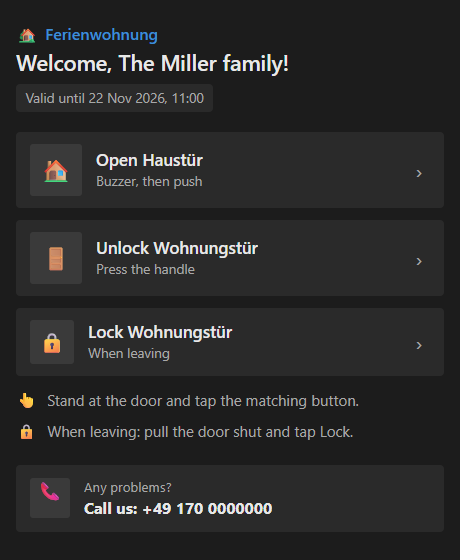
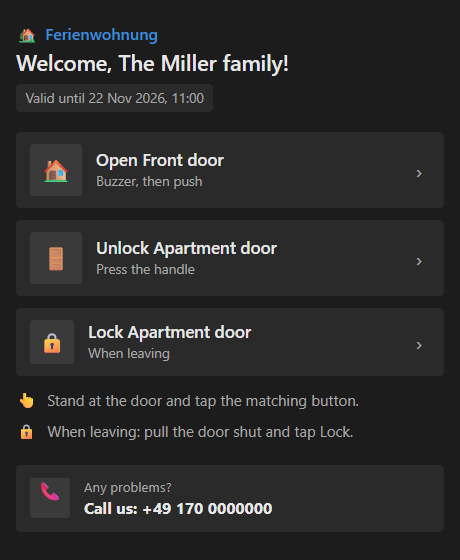
Guest Opener 1.3.5: Englische Türbezeichnungen für englischsprachige Gäste ergänzen.

Changed region(s): [[0.3348, 0.425, 0.6087, 0.4554], [0.2739, 0.5768, 0.5478, 0.6071], [0.3043, 0.2732, 0.487, 0.3036]]

diff --git a/guest_opener/src/app.ts b/guest_opener/src/app.ts
@@ -211,7 +211,7 @@ export function createApp(cfg: Config, store: Store, doors: Doors, notifier: Pic
   });
 
   app.post("/g/:token/door", async (c) => {
-    const { t } = guestLang(c);
+    const { lang, t } = guestLang(c);
     const stay = store.getStay(c.req.param("token"));
     if (!stay || stayStatus(stay) !== "active" || !(await hasSession(c, stay))) {
       return c.json({ ok: false, message: t.sessionExpired }, 401);
@@ -228,7 +228,9 @@ export function createApp(cfg: Config, store: Store, doors: Doors, notifier: Pic
     if (!isDoor(door) || !action || !doors.allows(door, action)) {
       return c.json({ ok: false, message: t.doorError }, 400);
     }
-    const name = doors.title(door);
+    // `name` is shown to the guest in their language; notifications to the host use the German label.
+    const name = doors.title(door, lang);
+    const hostName = doors.title(door);
     const log = { door, action, guest_name: stay.guest_name, at: Date.now() };
     const success =
       action === "lock" ? t.lockedDoor(name) : action === "unlock" ? t.unlocked(name) : doors.buzzes(door) ? t.openedBuzzer(name) : t.openedLatch(name);
@@ -248,7 +250,7 @@ export function createApp(cfg: Config, store: Store, doors: Doors, notifier: Pic
       if (loc.reason === "too_far") {
         notifier.send(
           "Guest Opener: Öffnen abgelehnt",
-          `${stay.guest_name} wollte „${name}“ aus ${((distance_m ?? 0) / 1000).toFixed(1)} km Entfernung öffnen.`,
+          `${stay.guest_name} wollte „${hostName}“ aus ${((distance_m ?? 0) / 1000).toFixed(1)} km Entfernung öffnen.`,
         );
       }
       const message = loc.reason === "too_far" ? t.tooFar : loc.reason === "inaccurate" ? t.inaccurate : t.geoUnavailable;
@@ -264,7 +266,7 @@ export function createApp(cfg: Config, store: Store, doors: Doors, notifier: Pic
     store.logAccess({ ...log, success: result.ok, detail: result.detail, distance_m });
     if (!result.ok) {
       store.setLastOpen(stay.token, door, previous);
-      notifier.send("Guest Opener: Tür reagiert nicht", `${name} (${stay.guest_name}): ${result.detail}`);
+      notifier.send("Guest Opener: Tür reagiert nicht", `${hostName} (${stay.guest_name}): ${result.detail}`);
       return c.json({ ok: false, message: t.doorError }, 502);
     }
     const firstOpen = stay.role === "guest" && !stay.last_open.house && !stay.last_open.apartment;
@@ -272,7 +274,7 @@ export function createApp(cfg: Config, store: Store, doors: Doors, notifier: Pic
       const verb = action === "unlock" ? "aufgesperrt" : "geöffnet";
       notifier.send(
         "Guest Opener: Gast angekommen",
-        `${stay.guest_name} hat zum ersten Mal ${name} ${verb}${distance_m === null ? "" : ` (${distance_m} m entfernt)`}.`,
+        `${stay.guest_name} hat zum ersten Mal ${hostName} ${verb}${distance_m === null ? "" : ` (${distance_m} m entfernt)`}.`,
       );
     }
     return c.json({ ok: true, message: success });

diff --git a/guest_opener/src/config.ts b/guest_opener/src/config.ts
@@ -21,6 +21,9 @@ export type Config = {
   doorApartment: string;
   doorHouseName: string;
   doorApartmentName: string;
+  /** Labels on the English guest page and message. */
+  doorHouseNameEn: string;
+  doorApartmentNameEn: string;
   doorHouseMode: DoorMode;
   doorApartmentMode: DoorMode;
   /** Optional sensor.* (percent) or binary_sensor.* (on = low) entity reporting the door device's battery. */
@@ -46,10 +49,12 @@ type Options = {
   admin_password?: string;
   door_house?: string;
   door_house_name?: string;
+  door_house_name_en?: string;
   door_house_mode?: string;
   door_house_battery?: string;
   door_apartment?: string;
   door_apartment_name?: string;
+  door_apartment_name_en?: string;
   door_apartment_mode?: string;
   door_apartment_battery?: string;
   notify_service?: string;
@@ -70,10 +75,12 @@ function optionsFromEnv(env: NodeJS.ProcessEnv): Options {
     admin_password: env.ADMIN_PASSWORD,
     door_house: env.DOOR_HOUSE,
     door_house_name: env.DOOR_HOUSE_NAME,
+    door_house_name_en: env.DOOR_HOUSE_NAME_EN,
     door_house_mode: env.DOOR_HOUSE_MODE,
     door_house_battery: env.DOOR_HOUSE_BATTERY,
     door_apartment: env.DOOR_APARTMENT,
     door_apartment_name: env.DOOR_APARTMENT_NAME,
+    door_apartment_name_en: env.DOOR_APARTMENT_NAME_EN,
     door_apartment_mode: env.DOOR_APARTMENT_MODE,
     door_apartment_battery: env.DOOR_APARTMENT_BATTERY,
     notify_service: env.NOTIFY_SERVICE,
@@ -152,6 +159,12 @@ export function buildConfig(
   if (notify && !/^notify\.[a-z0-9_]+$/.test(notify)) {
     errors.push(`notify_service must look like notify.mobile_app_my_phone (got "${o.notify_service}")`);
   }
+  const houseName = label(o.door_house_name, "Haustür");
+  const apartmentName = label(o.door_apartment_name, "Wohnungstür");
+  // Without an English label, the default German name gets the English default. A name the host chose
+  // can't be translated here, so it is kept as is.
+  const labelEn = (value: string | undefined, german: string, germanDefault: string, englishDefault: string) =>
+    label(value, german === germanDefault ? englishDefault : german);
   if (errors.length) throw new Error(`Invalid configuration:\n- ${errors.join("\n- ")}`);
 
   return {
@@ -166,8 +179,10 @@ export function buildConfig(
     sessionSecret: runtime.sessionSecret,
     doorHouse,
     doorApartment,
-    doorHouseName: label(o.door_house_name, "Haustür"),
-    doorApartmentName: label(o.door_apartment_name, "Wohnungstür"),
+    doorHouseName: houseName,
+    doorApartmentName: apartmentName,
+    doorHouseNameEn: labelEn(o.door_house_name_en, houseName, "Haustür", "Front door"),
+    doorApartmentNameEn: labelEn(o.door_apartment_name_en, apartmentName, "Wohnungstür", "Apartment door"),
     doorHouseMode,
     doorApartmentMode,
     batteryHouse: batteries.door_house_battery,

diff --git a/guest_opener/test/guest.test.ts b/guest_opener/test/guest.test.ts
@@ -61,7 +61,9 @@ test("geofence radius 0 disables the location check", async () => {
 });
 
 test("a disabled door is hidden and rejects actions", async () => {
-  const s = setup(testConfig({ doorHouse: "off", doorApartmentName: "Hoftor", doorApartmentMode: "unlock_and_lock" }));
+  const s = setup(
+    testConfig({ doorHouse: "off", doorApartmentName: "Hoftor", doorApartmentNameEn: "Hoftor", doorApartmentMode: "unlock_and_lock" }),
+  );
   const stay = s.addStay();
   await s.loginGuest(stay);
   const html = await (await s.request(`/g/${stay.token}`)).text();
@@ -136,6 +138,28 @@ test("the guest message names the property without an article", () => {
   const cfg = testConfig({ propertyName: "Haus Alpenblick" });
   const stay = { token: "t", role: "guest", guest_name: "Erika", pin: "123456", valid_from: 0, valid_until: 1 } as Stay;
   assert.match(guestMessageText(cfg, stay, "https://x/g/t"), /Schlüssel für „Haus Alpenblick“:/);
+});
+
+test("English guests see English door names, the host is notified with the German ones", async () => {
+  const s = setup(testConfig({ doorHouseNameEn: "Main entrance" }));
+  const stay = s.addStay();
+  await s.loginGuest(stay);
+  const en = { "accept-language": "en" };
+  const html = await (await s.request(`/g/${stay.token}`, { headers: en })).text();
+  assert.match(html, /Open Main entrance/);
+  assert.match(html, /Lock Apartment door/);
+  assert.doesNotMatch(html, /Haustür|Wohnungstür/);
+  const res = await s.request(`/g/${stay.token}/door`, {
+    method: "POST",
+    headers: { ...en, "content-type": "application/json" },
+    body: JSON.stringify({ door: "house", ...nearby }),
+  });
+  assert.match((await res.json()).message, /Main entrance/);
+  assert.match(s.notifications.at(-1)!.message, /zum ersten Mal Haustür geöffnet/);
+
+  const message = guestMessageText(testConfig({ doorHouseNameEn: "Main entrance" }), stay as Stay, "https://x/g/t", "en");
+  assert.match(message, /tap “Open Main entrance”/);
+  assert.doesNotMatch(message, /Haustür|Wohnungstür/);
 });
 
 // Guests are addressed formally ("Sie"); the admin pages are for the hosts and may use "du".

diff --git a/guest_opener/src/views.ts b/guest_opener/src/views.ts
@@ -103,11 +103,11 @@ function doorButton(door: Door, action: DoorAction, icon: string, label: string,
 </button>`;
 }
 
-function guestDoorButtons(cfg: Config, t: Texts): string {
+function guestDoorButtons(cfg: Config, t: Texts, lang: Lang): string {
   const iconFor = (door: Door, action: DoorAction) => (action === "lock" ? "🔒" : door === "house" ? "🏠" : "🚪");
   return DOORS.flatMap((door) =>
     doorActions(cfg, door).map((action) => {
-      const name = doorTitle(cfg, door);
+      const name = doorTitle(cfg, door, lang);
       if (action === "lock") return doorButton(door, action, iconFor(door, action), t.lock(name), t.lockSub);
       if (action === "unlock") return doorButton(door, action, iconFor(door, action), t.unlock(name), t.unlockSub);
       const sub = doorBuzzes(cfg, door) ? t.openBuzzerSub : t.openLatchSub;
@@ -145,7 +145,7 @@ ${brand(cfg)}
 <h1>${esc(t.welcome(stay.guest_name))}</h1>
 <p class="chip">${esc(validity)}</p>
 <div class="doors">
-  ${guestDoorButtons(cfg, t)}
+  ${guestDoorButtons(cfg, t, lang)}
 </div>
 <div id="status" class="status" role="status" aria-live="polite" hidden></div>
 <ul class="steps">
@@ -165,7 +165,7 @@ const actionLabel = { open: "öffnen", unlock: "aufsperren", lock: "zusperren" }
 /** Instructions follow the configured doors, so the copied message matches the buttons. */
 function guestInstructions(cfg: Config, lang: Lang): string {
   const lines = DOORS.filter((door) => doorEnabled(cfg, door)).map((door) => {
-    const name = doorTitle(cfg, door);
+    const name = doorTitle(cfg, door, lang);
     const actions = doorActions(cfg, door);
     if (lang === "en") {
       if (actions.includes("unlock")) return `${name}: tap “Unlock ${name}”, then press the handle. When leaving, tap “Lock ${name}”.`;

diff --git a/guest_opener/src/doors.ts b/guest_opener/src/doors.ts
@@ -1,5 +1,6 @@
 import type { Config } from "./config";
 import type { HomeAssistant } from "./homeassistant";
+import type { Lang } from "./i18n";
 
 export const DOORS = ["house", "apartment"] as const;
 export type Door = (typeof DOORS)[number];
@@ -53,7 +54,9 @@ export function doorMode(cfg: Config, door: Door): DoorMode {
   return door === "house" ? cfg.doorHouseMode : cfg.doorApartmentMode;
 }
 
-export function doorTitle(cfg: Config, door: Door): string {
+/** German labels for the admin pages and notifications, English ones for English-speaking guests. */
+export function doorTitle(cfg: Config, door: Door, lang: Lang = "de"): string {
+  if (lang === "en") return door === "house" ? cfg.doorHouseNameEn : cfg.doorApartmentNameEn;
   return door === "house" ? cfg.doorHouseName : cfg.doorApartmentName;
 }
 
@@ -96,8 +99,8 @@ export class Doors {
     return doorEnabled(this.cfg, door);
   }
 
-  title(door: Door): string {
-    return doorTitle(this.cfg, door);
+  title(door: Door, lang: Lang = "de"): string {
+    return doorTitle(this.cfg, door, lang);
   }
 
   actions(door: Door): DoorAction[] {

diff --git a/guest_opener/test/admin.test.ts b/guest_opener/test/admin.test.ts
@@ -158,4 +158,10 @@ test("invalid configuration fails loudly", () => {
   const named = buildConfig({ admin_password: PASSWORD, geofence_radius_m: 0, door_house: "off", door_apartment_name: "Hoftor" }, runtime);
   assert.equal(named.doorHouse, "off");
   assert.equal(named.doorApartmentName, "Hoftor");
+  assert.equal(named.doorApartmentNameEn, "Hoftor", "a German name the host chose is kept without an English label");
+  assert.equal(defaults.doorHouseNameEn, "Front door");
+  assert.equal(defaults.doorApartmentNameEn, "Apartment door");
+  const english = buildConfig({ admin_password: PASSWORD, geofence_radius_m: 0, door_house_name_en: "Main entrance" }, runtime);
+  assert.equal(english.doorHouseNameEn, "Main entrance");
+  assert.equal(english.doorHouseName, "Haustür");
 });

diff --git a/guest_opener/DOCS.md b/guest_opener/DOCS.md
@@ -51,6 +51,7 @@ Im Reiter **Konfiguration** mindestens diese Werte setzen, dann das Add-on neu s
 | `admin_password` | Passwort für `/admin`. Mindestens 12 Zeichen. Eine Änderung meldet alle Verwaltungen ab. |
 | `door_house`, `door_apartment` | `off` blendet die Tür aus. `mock` simuliert sie. Sonst die Entität, z. B. `switch.haustuer` oder `lock.wohnungstuer`. Mindestens eine Tür muss an sein. |
 | `door_house_name`, `door_apartment_name` | Bezeichnung auf den Knöpfen und in der Gästenachricht. Leer: `Haustür` bzw. `Wohnungstür`. |
+| `door_house_name_en`, `door_apartment_name_en` | Optional. Bezeichnung für Gäste, die Seite und Nachricht auf Englisch sehen. Leer: `Front door` bzw. `Apartment door`. Wurde die deutsche Bezeichnung geändert, steht ohne englische Bezeichnung die deutsche. |
 | `door_house_mode`, `door_apartment_mode` | `open` nur öffnen. `open_and_lock` Falle ziehen und zusperren. `unlock_and_lock` aufsperren und zusperren. Die letzten beiden brauchen `lock.*` oder `mock`. |
 | `door_house_battery`, `door_apartment_battery` | Optional. `sensor.*` in Prozent oder `binary_sensor.*` (`on` = schwach). |
 | `notify_service` | Optional. Dienst für Push-Nachrichten, z. B. `notify.mobile_app_mein_handy`. |

diff --git a/guest_opener/DOCS.en.md b/guest_opener/DOCS.en.md
@@ -52,6 +52,7 @@ On the **Configuration** tab set at least these values, then restart the add-on:
 | `admin_password` | Password for `/admin`. At least 12 characters. Changing it signs out every admin session. |
 | `door_house`, `door_apartment` | `off` hides the door. `mock` simulates it. Otherwise the entity, for example `switch.front_door` or `lock.apartment_door`. At least one door must be on. |
 | `door_house_name`, `door_apartment_name` | Label on the buttons and in the guest message. Empty: `Haustür` and `Wohnungstür`. |
+| `door_house_name_en`, `door_apartment_name_en` | Optional. Label for guests who see the page and message in English. Empty: `Front door` and `Apartment door`. If you changed the German label, it is used instead. |
 | `door_house_mode`, `door_apartment_mode` | `open` opens only. `open_and_lock` unlatches and locks. `unlock_and_lock` unlocks and locks. The last two need a `lock.*` or `mock`. |
 | `door_house_battery`, `door_apartment_battery` | Optional. A `sensor.*` in percent, or a `binary_sensor.*` (`on` = low). |
 | `notify_service` | Optional. Push service, for example `notify.mobile_app_my_phone`. |

diff --git a/guest_opener/CHANGELOG.md b/guest_opener/CHANGELOG.md
@@ -1,5 +1,12 @@
 # Changelog
 
+## 1.3.5
+
+- Neue Optionen `door_house_name_en` und `door_apartment_name_en`: englische Türbezeichnungen für
+  die englische Gästeseite und Nachricht. Ohne Angabe heißen die Türen dort „Front door“ und
+  „Apartment door“. Eine geänderte deutsche Bezeichnung bleibt ohne englische Angabe erhalten.
+- Benachrichtigungen an die Gastgeber nennen die Tür weiterhin mit der deutschen Bezeichnung.
+
 ## 1.3.4
 
 - Gäste werden auf Deutsch gesiezt, auf der Gästeseite und in der kopierten Nachricht. Der Ton ist
